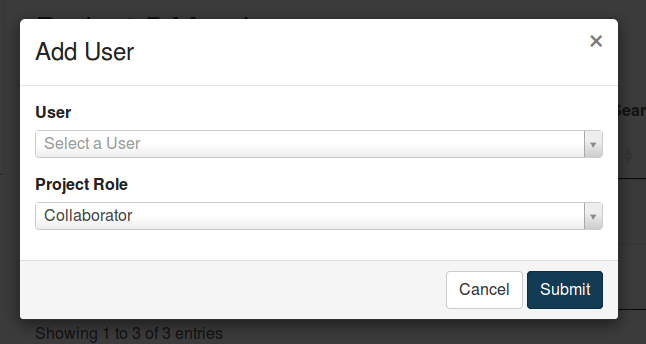
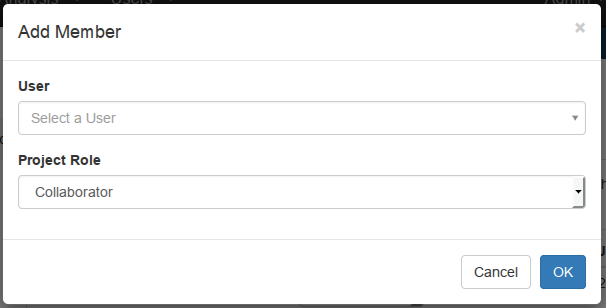
Add user group stuff to the sharing data tutorial.

Changed region(s): [[0.0, 0.0, 1.0, 1.0]]

diff --git a/doc/_includes/tutorials/common/project-add-member.md b/doc/_includes/tutorials/common/project-add-member.md
@@ -1,11 +1,25 @@
-To add a project member, click on the "Add Member" button, just below the project title:
+To add an individual project member, click on the "Add Member" button, just below the project title:
 
 ![Add project member button.]({{ site.baseurl }}/images/tutorials/common/projects/add-member-button.png)
 
-You can use the dialog that appears to select a user account (you can choose from a list, or click the "Select a User" field and start typing), and choose the **Project Role** that the new member should have:
+You can use the dialog that appears to select a user account, and choose the **Project Role** that the new member should have:
 
 ![Add project member dialog.]({{ site.baseurl }}/images/tutorials/common/projects/add-member-modal.png)
 
 **Remember**: a project collaborator has *read-only* permissions, and a project *manager* is allowed to modify project details.
 
-Once you've selected the user and role to add the new member, click on the "Submit" button.
+Once you've selected the user and role to add to the project, click on the "OK" button.
+
+To add a group to the project, click on the "Groups" button on the left-side of the page, then click on "Add Group":
+
+![Add project group member button.]({{ site.baseurl }}/images/tutorials/common/projects/add-group-member-button.png)
+
+You can use the dialog that appears to select a user group, and choose the **Project Role** that the new group member should have:
+
+![Add project group member dialog.]({{ site.baseurl }}/images/tutorials/common/projects/add-group-member-modal.png)
+
+**Remember**: a project collaborator has *read-only* permissions, and a project *manager* is allowed to modify project details. When adding a user group, **all** members of the user group will have that project role on this project.
+
+**Note**: If a user is added *both* as an individual member and as part of a group, the individual user project role takes precedence over the group project role. For example, if Bob is added to Project 5 as a Project Owner as an individual member, and is in a Group that's on Project 5 as a Project Member, Bob would be given Project Owner permissions to Project 5.
+
+Once you've selected the user group and role to add to the project, click on the "OK" button.

diff --git a/doc/user/tutorials/sharing/index.md b/doc/user/tutorials/sharing/index.md
@@ -13,7 +13,9 @@ Once you've got data into IRIDA, either by [web upload][web-upload] or from a se
 
 In order to share data from a project, you **must** have the **Manager** role on the project. The **Manager** role implies ownership of the data contained in the project. You can find out if you have the **Manager** role by looking at the [project members section][project-members].
 
-If the person you want to share with within IRIDA does not have a user account, you must also have permission to create a user account for that user. If you do not, then you'll need to contact someone who has permissions to create user accounts.
+You can share data with collaborators in IRIDA in two ways: to an individual user account, or to a group of user accounts.
+
+If the individual person you want to share with within IRIDA does not have a user account, you must also have permission to create a user account for that user. If you do not, then you'll need to contact someone who has permissions to create user accounts.
 
 * TOC
 {:toc}
@@ -25,10 +27,17 @@ If the person you would like to share data with within IRIDA does not have a use
 
 {% include tutorials/common/creating-a-user-account.md %}
 
+Creating a User Group
+---------------------
+
+You may share data with groups of users in IRIDA by creating a user group.
+
+{% include tutorials/common/creating-a-user-group.md %}
+
 Adding a Project Member
 -----------------------
 
-Once the user account is created go to the project containing the data you want to share with this user, and select the **Members** tab.
+Once the user account or group is created, go to the project containing the data you want to share with this user, and select the **Members** tab.
 
 ![Project details members tab.]({{ site.baseurl }}/images/tutorials/common/projects/project-details-members-tab.png)
 

diff --git a/doc/_includes/tutorials/common/creating-a-user-group.md b/doc/_includes/tutorials/common/creating-a-user-group.md
@@ -1,0 +1,21 @@
+All users are permitted to create user groups in IRIDA.
+
+After logging in, click on the **Users** menu and select "Create Group":
+
+![Create user group menu.]({{ site.baseurl }}/images/tutorials/common/users/create-user-group-menu.png)
+
+Fill in the group details fields. Only the group name is required, but you can optionally provide a more detailed description of what the user group is:
+
+![User group details form.]({{ site.baseurl }}/images/tutorials/common/users/user-group-details-form.png)
+
+On successfully creating a new user group, you will see the user group details that you entered:
+
+![User group details page.]({{ site.baseurl }}/images/tutorials/common/users/user-group-details-page.png)
+
+By default, your user account is assigned to the group as the group owner. You can add other users to the group by clicking on the "Add Group Member" button:
+
+![Add group member button.]({{ site.baseurl }}/images/tutorials/common/users/user-group-add-member-button.png)
+
+In the dialog that appears, choose the user that you want to add and the group role that the user should have. Group owners are allowed to add new members to the group. Group members are not allowed to add new members to the group.
+
+![Add group member dialog.]({{ site.baseurl }}/images/tutorials/common/users/user-group-add-member-dialog.png)
